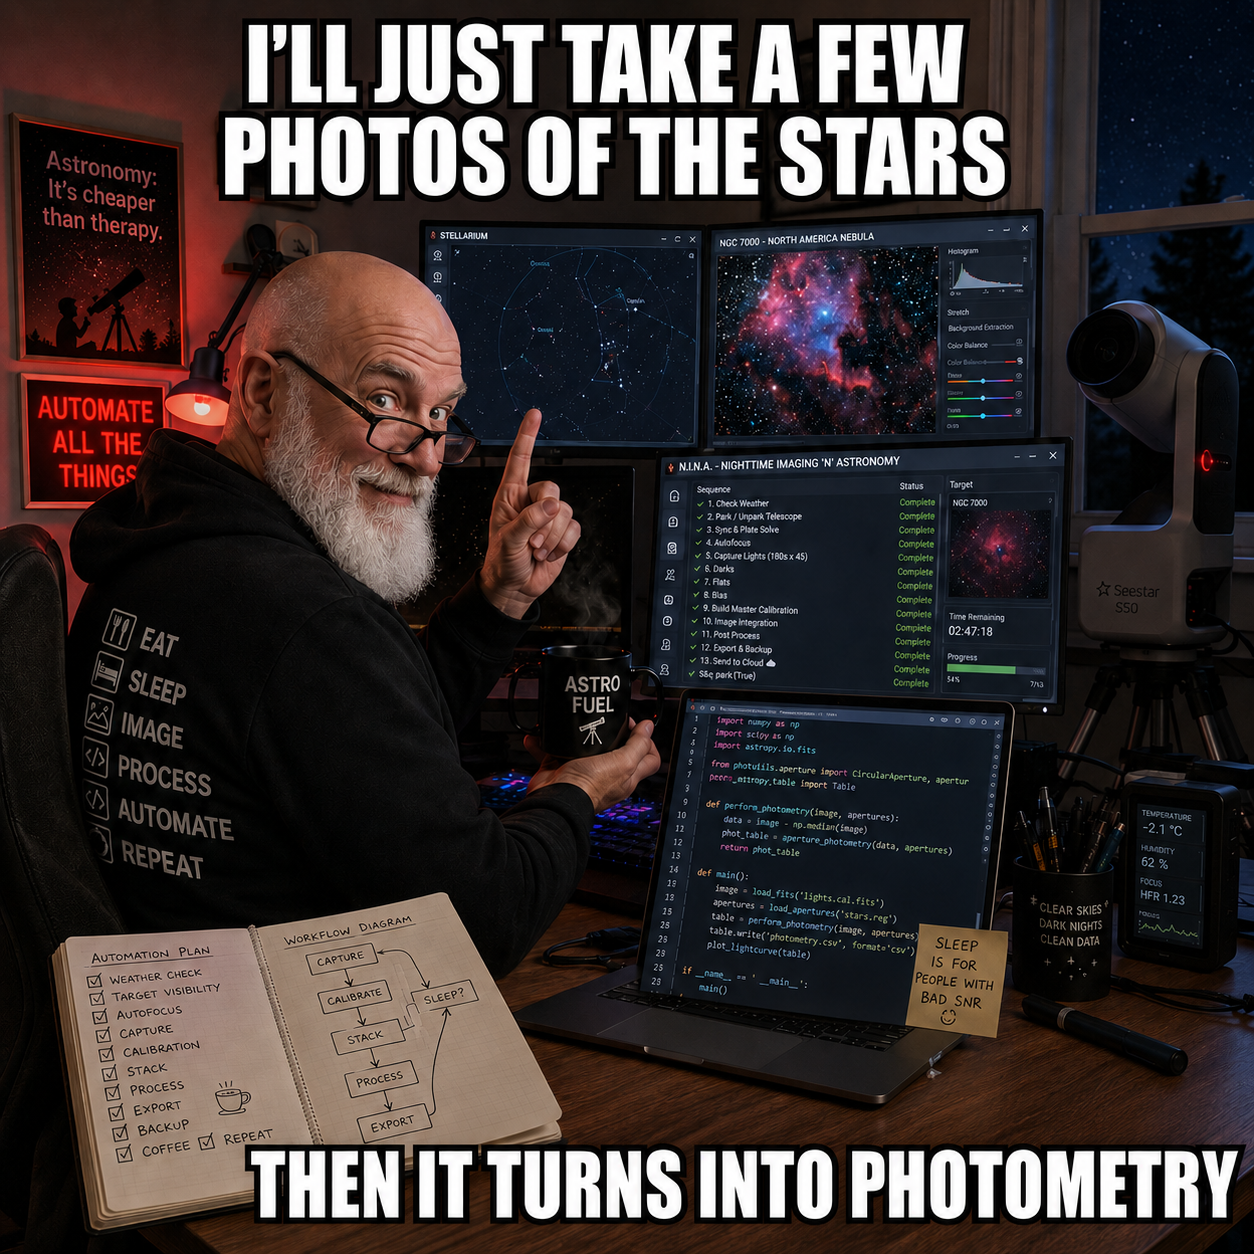
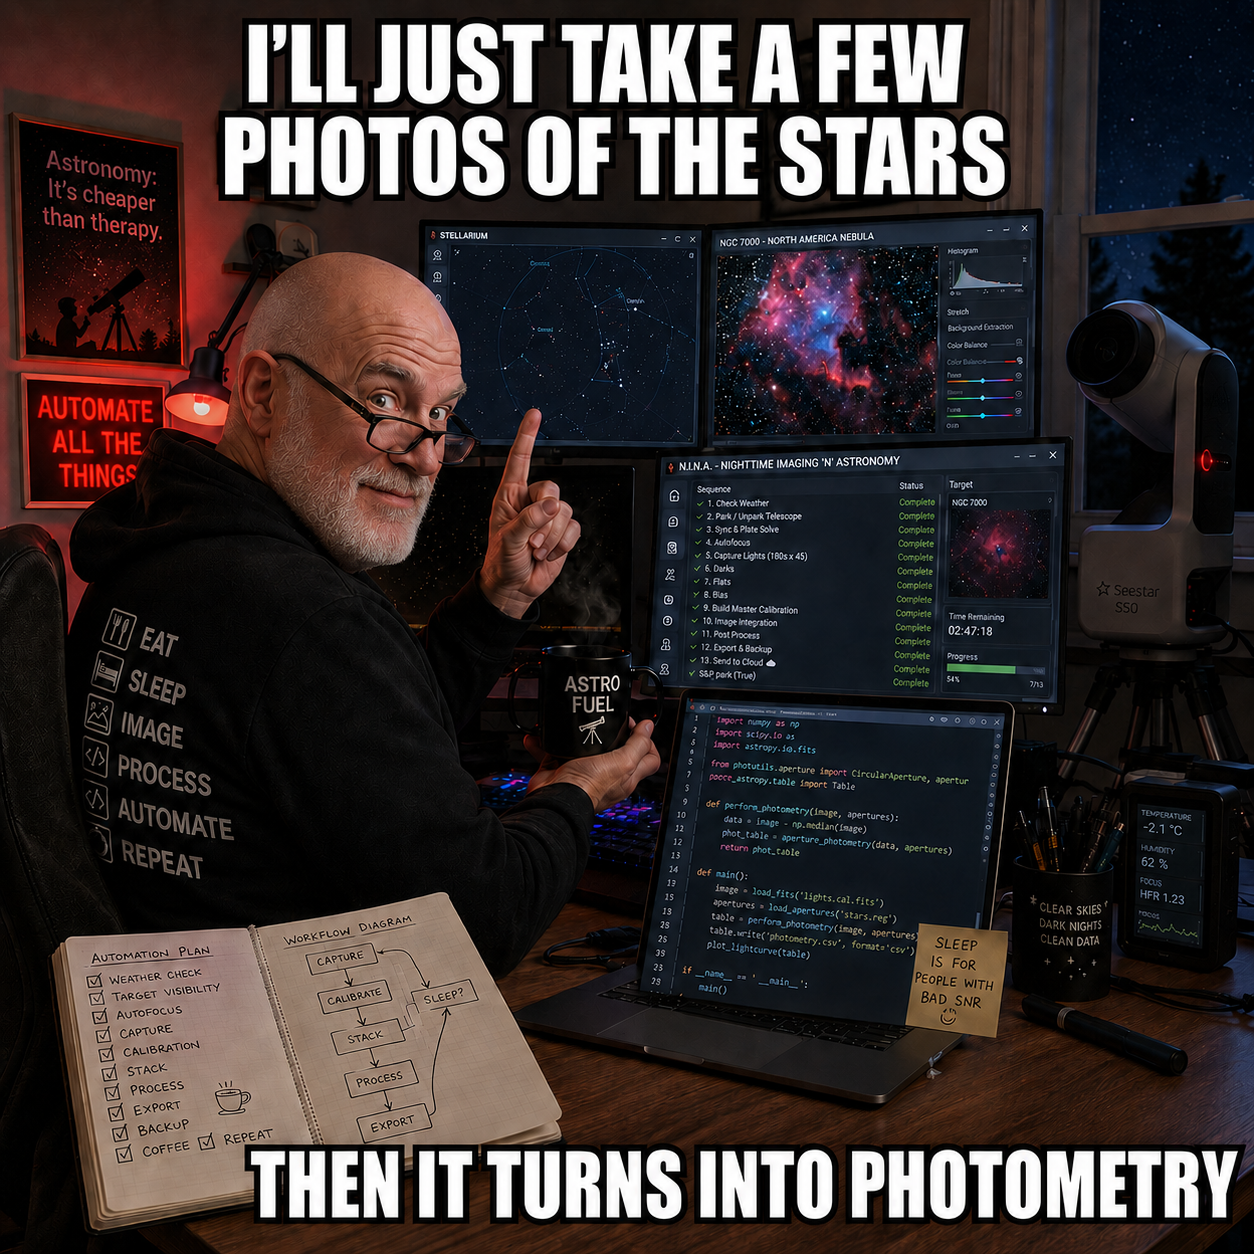
Update meme image and move author name above it in README

diff --git a/README.md b/README.md
@@ -113,11 +113,9 @@ TODO.md                      Build checklist and roadmap
 
 ## Author
 
-<br/><br/>
+Benno Schneider · AAVSO observer code **BSLA**
 
 <img src="docs/astrophotography%20and%20photometry%20meme.png" width="800"/>
-
-Benno Schneider · AAVSO observer code **BSLA**
 
 ---
 